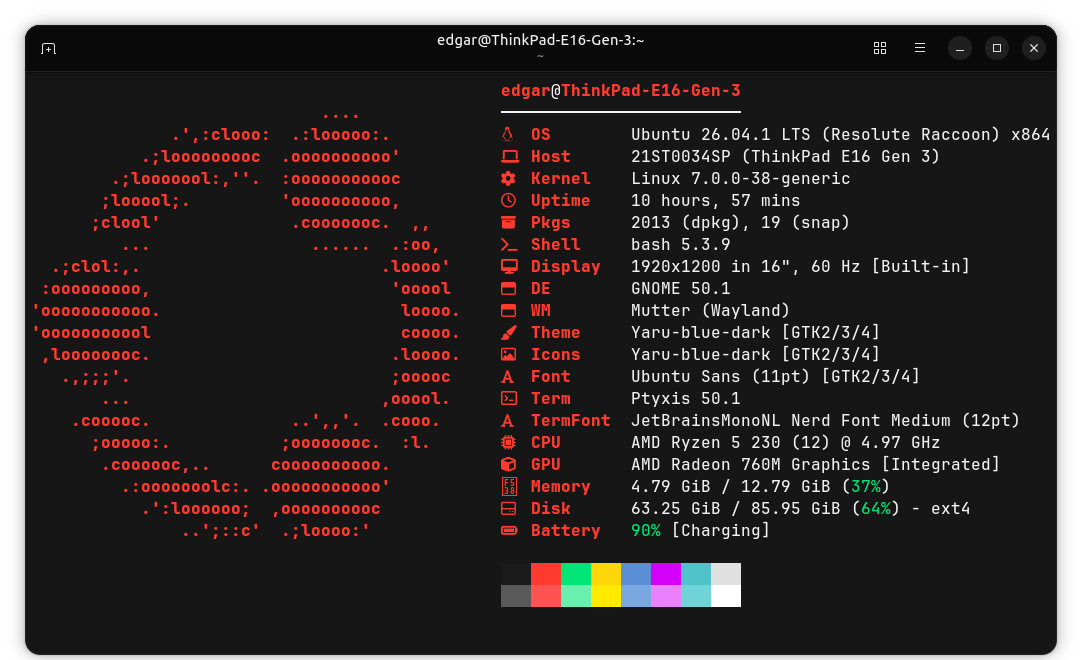
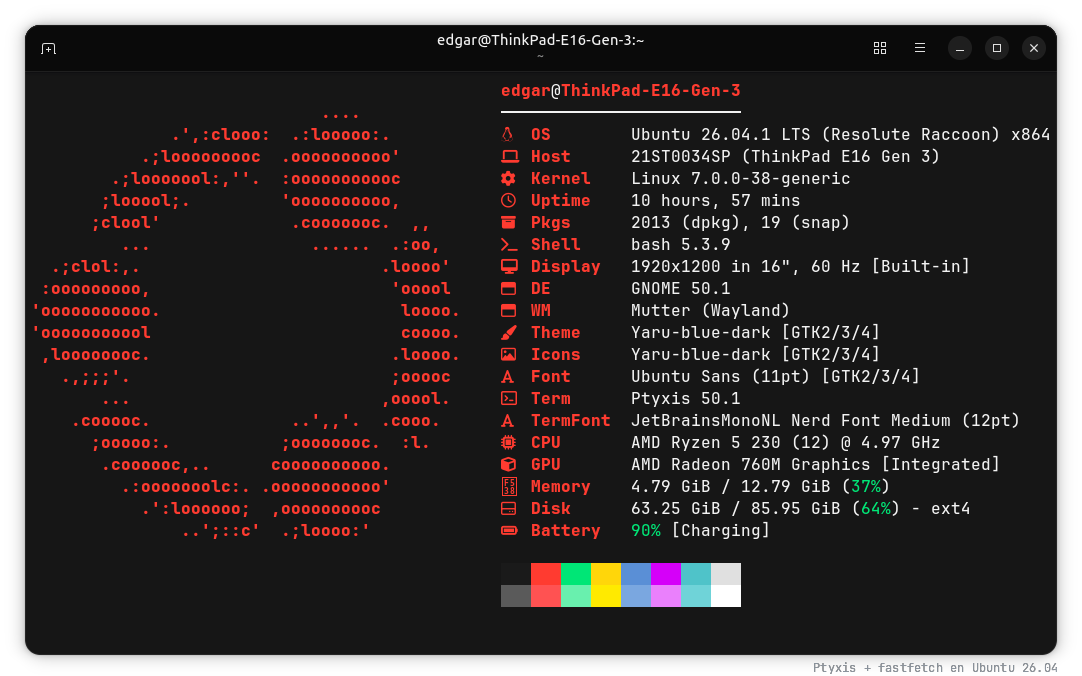
Incluir el pie de foto dentro de la imagen

diff --git a/README.md b/README.md
@@ -15,8 +15,7 @@
 Cursando primer año del Grado en Ingeniería Informática. Me interesa entender cómo funcionan las cosas por dentro: depurar errores hasta encontrar su causa real y automatizar el trabajo repetitivo.
 
 <div align="right">
-  <img src="assets/setup.png" alt="Mi terminal: Ptyxis con fastfetch en Ubuntu" width="100%" align="top">
-  <sub>Ptyxis + fastfetch en Ubuntu 26.04</sub>
+  <img src="assets/setup.png" alt="Mi terminal: Ptyxis con fastfetch en Ubuntu" width="100%">
 </div>
 
 ## 📦 Proyectos
